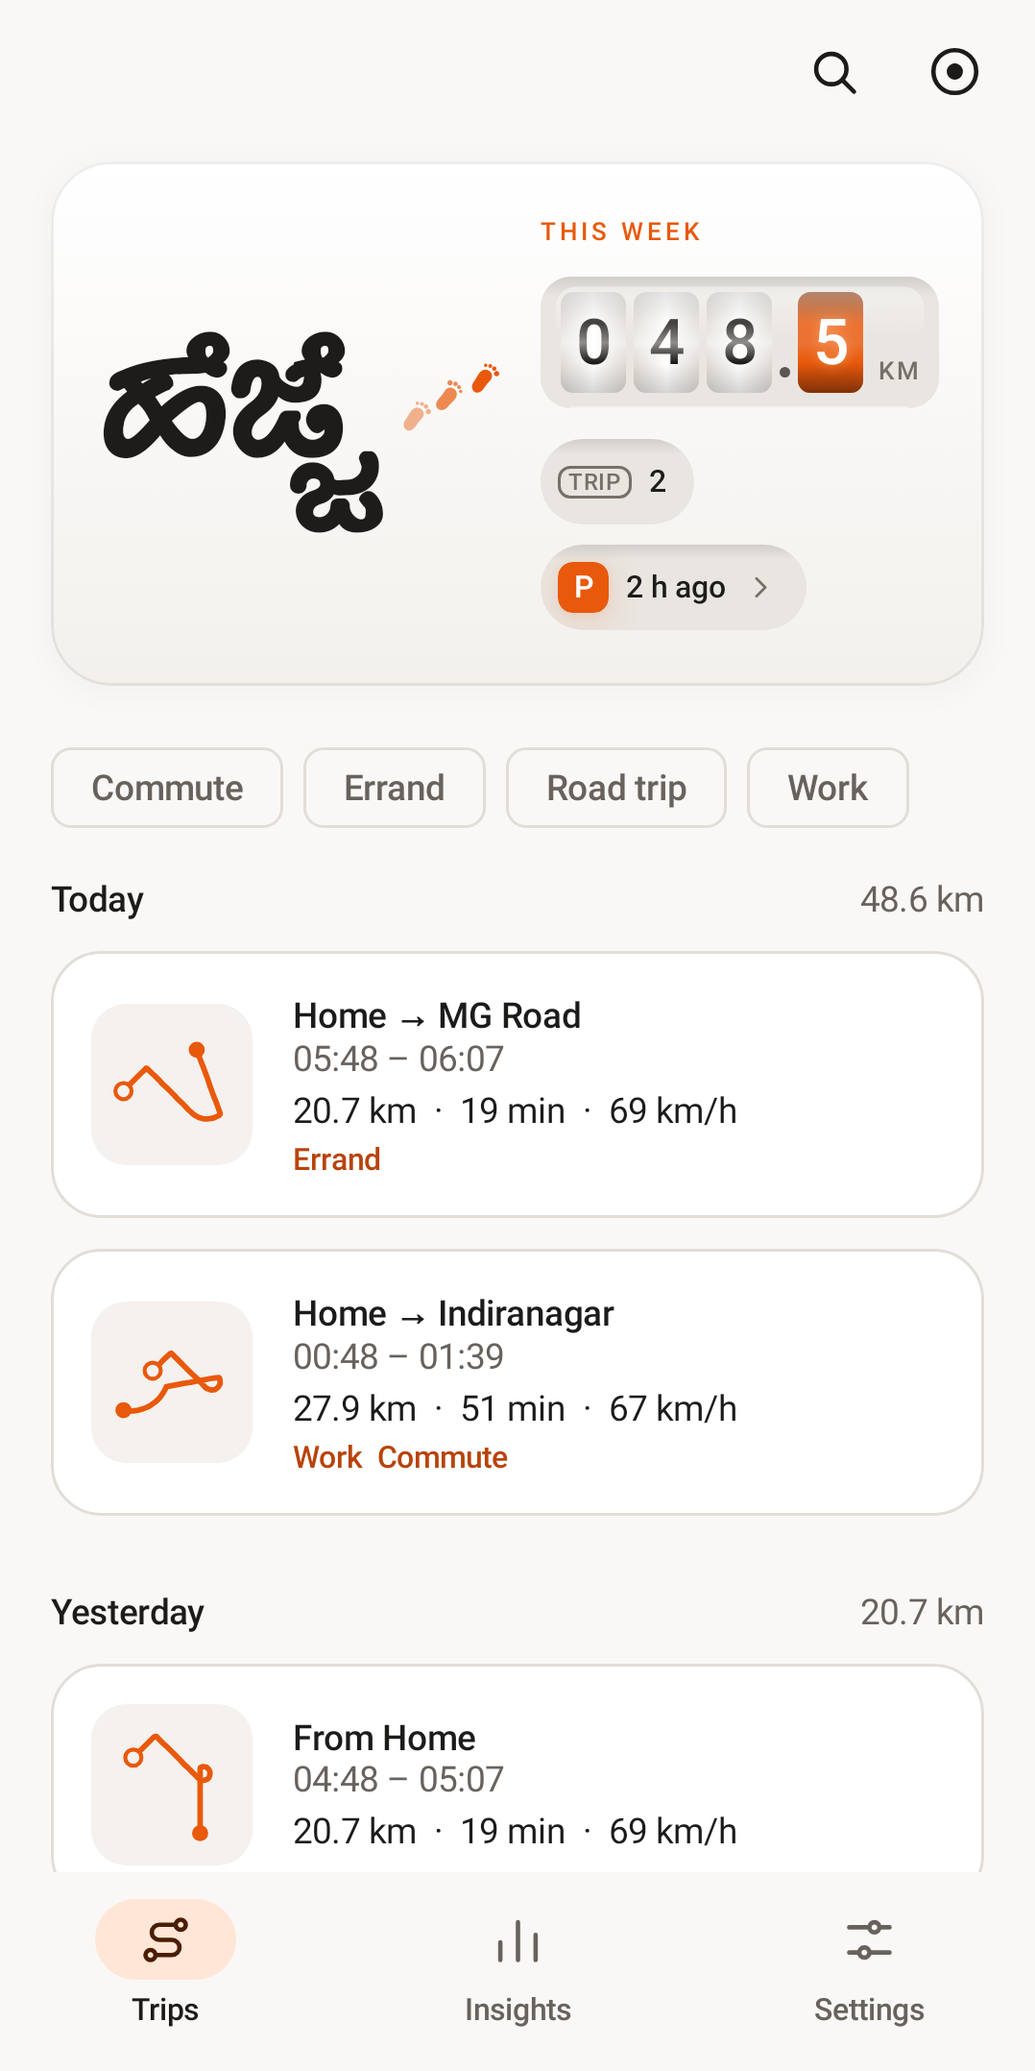
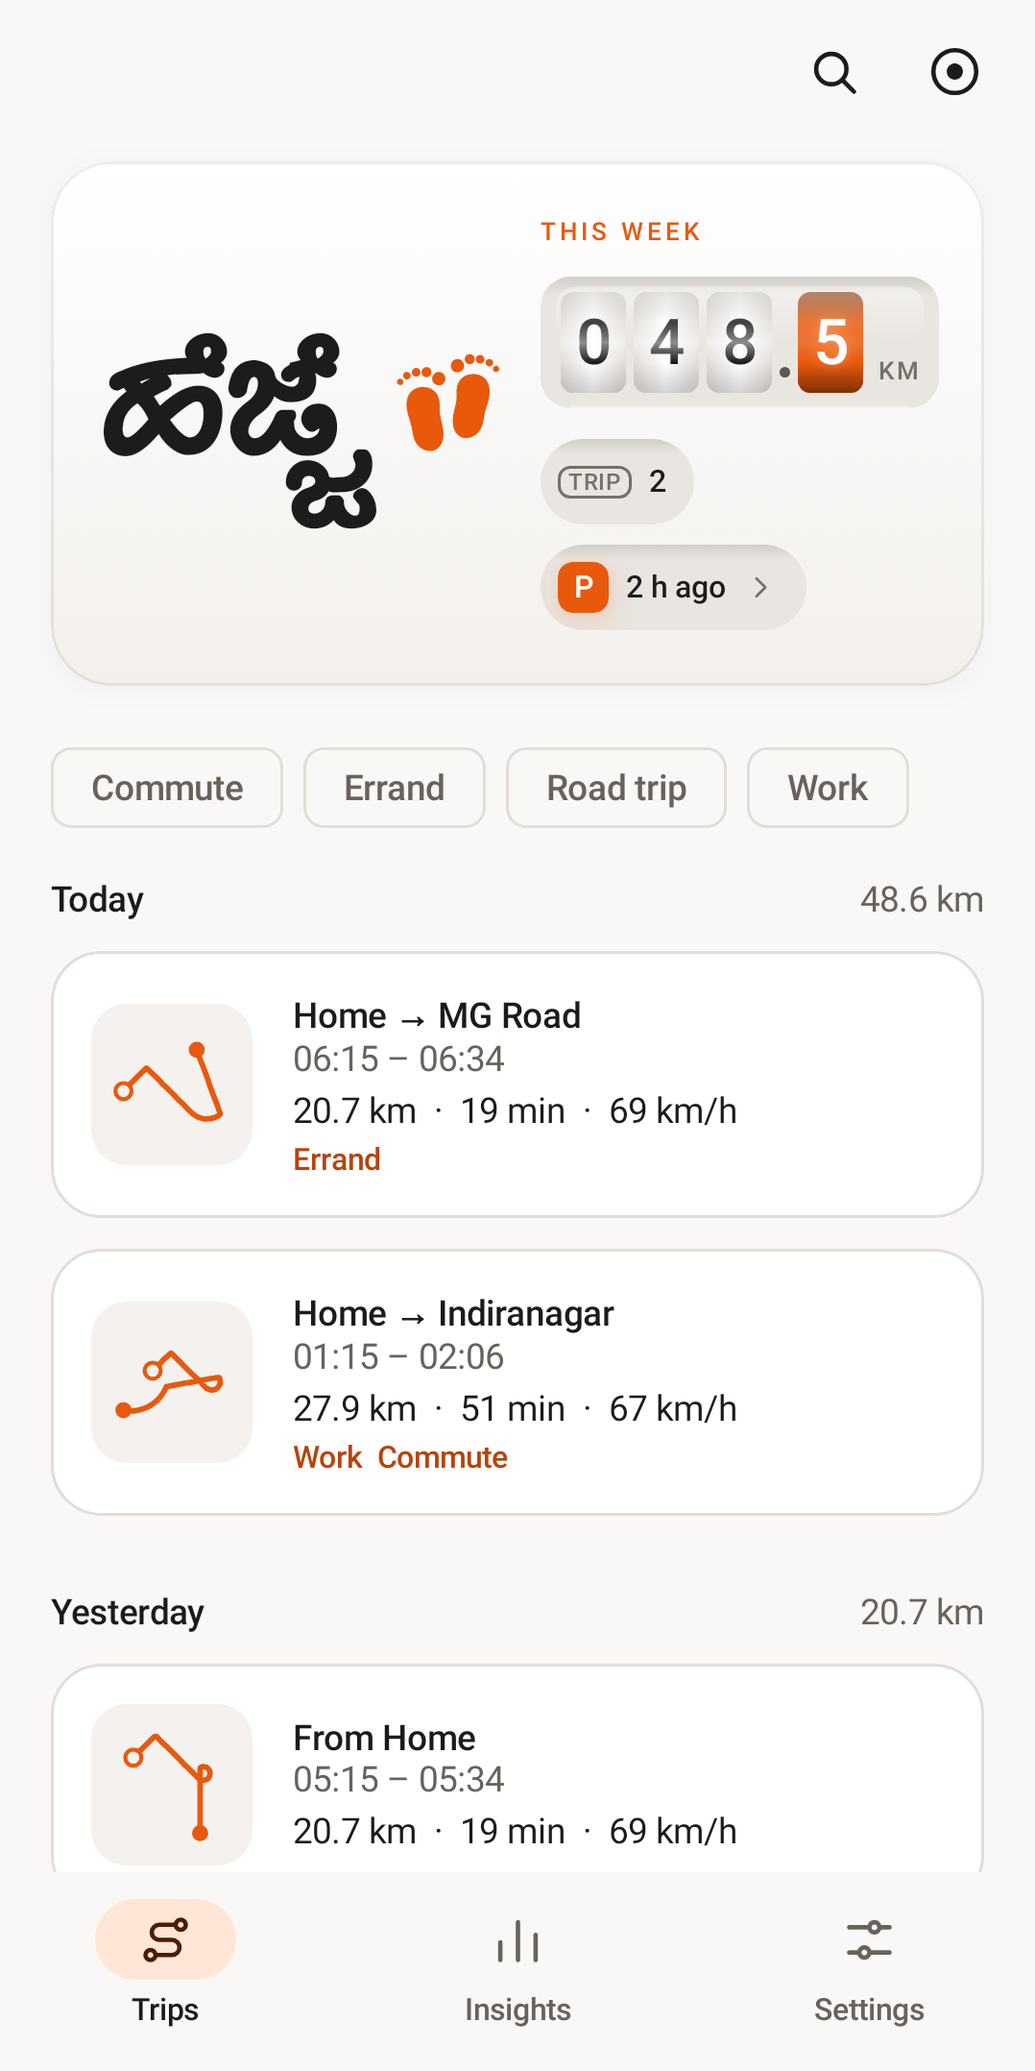
Footstep mark: one pair of feet beside the wordmark
The three-step trail becomes a single pair of bare feet, five toes each,
like the footprints emoji. It is now part of one shared wordmark that
stands the feet on the letters' baseline and scales them with the text,
so it lines up on every screen, the share picture, the widget and the
Play feature graphic. Store screenshots refreshed.

Claude-Session: https://claude.ai/code/session_01V1Pa28FQNsQ4Z9KmypYRwm

diff --git a/app/src/main/java/com/canis/hejje/ui/theme/Wordmark.kt b/app/src/main/java/com/canis/hejje/ui/theme/Wordmark.kt
@@ -2,39 +2,87 @@ package com.canis.hejje.ui.theme
 
 import android.content.Context
 import android.graphics.Canvas
+import android.graphics.Paint
+import androidx.compose.foundation.layout.Box
 import androidx.compose.foundation.layout.aspectRatio
-import androidx.compose.foundation.layout.height
+import androidx.compose.foundation.layout.fillMaxHeight
+import androidx.compose.foundation.layout.fillMaxSize
+import androidx.compose.foundation.text.BasicText
+import androidx.compose.foundation.text.InlineTextContent
+import androidx.compose.foundation.text.TextAutoSize
+import androidx.compose.foundation.text.appendInlineContent
 import androidx.compose.material3.Icon
+import androidx.compose.material3.LocalContentColor
 import androidx.compose.runtime.Composable
+import androidx.compose.runtime.remember
+import androidx.compose.ui.Alignment
 import androidx.compose.ui.Modifier
 import androidx.compose.ui.graphics.Color
+import androidx.compose.ui.graphics.takeOrElse
 import androidx.compose.ui.res.painterResource
+import androidx.compose.ui.res.stringResource
+import androidx.compose.ui.text.Placeholder
+import androidx.compose.ui.text.PlaceholderVerticalAlign
+import androidx.compose.ui.text.TextStyle
+import androidx.compose.ui.text.buildAnnotatedString
 import androidx.compose.ui.text.font.Font
 import androidx.compose.ui.text.font.FontFamily
 import androidx.compose.ui.text.font.FontWeight
-import androidx.compose.ui.unit.Dp
+import androidx.compose.ui.unit.em
 import androidx.core.content.ContextCompat
 import com.canis.hejje.R
 
 /** Mallige Bold, used only for the name ಹೆಜ್ಜೆ. GPL v2, see third_party/mallige. */
 val WordmarkFont = FontFamily(Font(R.font.mallige_bold, FontWeight.Bold))
 
-/** The footstep marks drawn beside the wordmark ([R.drawable.ic_footsteps]), [height] tall, in [tint]. Decorative. */
+/** The footstep mark ([R.drawable.ic_footsteps]): width for each unit of height. */
+const val FOOTSTEPS_ASPECT = 38f / 36f
+
+/** The mark is this many times the font size tall, standing on the baseline like the letters. */
+private const val FEET_EM = 0.6f
+
+/** Space between the name and the mark, in font sizes. */
+private const val FEET_GAP_EM = 0.06f
+
+private const val FEET_ID = "feet"
+
+/**
+ * The name ಹೆಜ್ಜೆ in Mallige with the footstep mark after it, on the same baseline and scaled with the
+ * text, so it lines up at any size (including [autoSize]). The mark is decorative.
+ */
 @Composable
-fun Footsteps(height: Dp, tint: Color, modifier: Modifier = Modifier) {
-    Icon(
-        painterResource(R.drawable.ic_footsteps), contentDescription = null, tint = tint,
-        modifier = modifier.height(height).aspectRatio(FOOTSTEPS_ASPECT),
+fun Wordmark(style: TextStyle, footColor: Color, modifier: Modifier = Modifier, autoSize: TextAutoSize? = null) {
+    val name = stringResource(R.string.brand_name)
+    val text = remember(name) { buildAnnotatedString { append(name); appendInlineContent(FEET_ID, " ") } }
+    val feet = mapOf(
+        FEET_ID to InlineTextContent(
+            Placeholder((FEET_GAP_EM + FEET_EM * FOOTSTEPS_ASPECT).em, FEET_EM.em, PlaceholderVerticalAlign.AboveBaseline),
+        ) {
+            Box(Modifier.fillMaxSize(), contentAlignment = Alignment.CenterEnd) {
+                Icon(
+                    painterResource(R.drawable.ic_footsteps), contentDescription = null, tint = footColor,
+                    modifier = Modifier.fillMaxHeight().aspectRatio(FOOTSTEPS_ASPECT),
+                )
+            }
+        },
+    )
+    BasicText(
+        text, modifier,
+        style = style.copy(fontFamily = WordmarkFont, fontWeight = FontWeight.Bold, color = style.color.takeOrElse { LocalContentColor.current }),
+        maxLines = 1, inlineContent = feet, autoSize = autoSize,
     )
 }
 
-/** Width of the footstep marks for each unit of height. */
-const val FOOTSTEPS_ASPECT = 1.5f
+/** Width of [name] plus its footstep mark when drawn with [paint] (already set to the wordmark's font and size). */
+fun wordmarkWidth(paint: Paint, name: String): Float = paint.measureText(name) + paint.textSize * (FEET_GAP_EM + FEET_EM * FOOTSTEPS_ASPECT)
 
-/** Draws the footstep marks into a picture (share card, widget), bottom-left at ([left], [bottom]). */
-fun Canvas.drawFootsteps(context: Context, left: Float, bottom: Float, height: Float, color: Int) {
+/** Draws [name] with [paint] at ([x], [baseline]) and the footstep mark after it, standing on the same baseline. */
+fun Canvas.drawWordmark(context: Context, name: String, x: Float, baseline: Float, paint: Paint, footColor: Int) {
+    drawText(name, x, baseline, paint)
     val marks = ContextCompat.getDrawable(context, R.drawable.ic_footsteps)?.mutate() ?: return
-    marks.setTint(color)
-    marks.setBounds(left.toInt(), (bottom - height).toInt(), (left + height * FOOTSTEPS_ASPECT).toInt(), bottom.toInt())
+    val h = paint.textSize * FEET_EM
+    val left = x + paint.measureText(name) + paint.textSize * FEET_GAP_EM
+    marks.setTint(footColor)
+    marks.setBounds(left.toInt(), (baseline - h).toInt(), (left + h * FOOTSTEPS_ASPECT).toInt(), baseline.toInt())
     marks.draw(this)
 }

diff --git a/app/src/main/java/com/canis/hejje/ui/trips/Cluster.kt b/app/src/main/java/com/canis/hejje/ui/trips/Cluster.kt
@@ -25,7 +25,6 @@ import androidx.compose.foundation.layout.width
 import androidx.compose.foundation.layout.wrapContentHeight
 import androidx.compose.foundation.shape.CircleShape
 import androidx.compose.foundation.shape.RoundedCornerShape
-import androidx.compose.foundation.text.BasicText
 import androidx.compose.foundation.text.TextAutoSize
 import androidx.compose.material3.Icon
 import androidx.compose.material3.MaterialTheme
@@ -75,10 +74,9 @@ import com.canis.hejje.food.NextStop
 import com.canis.hejje.recording.LiveState
 import com.canis.hejje.recording.TraceState
 import com.canis.hejje.ui.components.HejjeIcons
-import com.canis.hejje.ui.theme.Footsteps
+import com.canis.hejje.ui.theme.Wordmark
 import com.canis.hejje.ui.theme.LocalPalette
 import com.canis.hejje.ui.theme.LocalReduceMotion
-import com.canis.hejje.ui.theme.WordmarkFont
 import kotlinx.coroutines.delay
 import kotlin.math.abs
 import kotlin.math.floor
@@ -190,18 +188,11 @@ fun InstrumentCluster(
                     verticalAlignment = Alignment.CenterVertically,
                     horizontalArrangement = Arrangement.spacedBy(12.dp),
                 ) {
-                    Row(Modifier.weight(1f), verticalAlignment = Alignment.CenterVertically) {
-                        BasicText(
-                            stringResource(R.string.brand_name),
-                            style = MaterialTheme.typography.displaySmall.copy(
-                                fontFamily = WordmarkFont, fontWeight = FontWeight.Bold, color = dash.text, shadow = dash.wordShadow,
-                            ),
-                            maxLines = 1,
-                            autoSize = TextAutoSize.StepBased(minFontSize = 22.sp, maxFontSize = 72.sp, stepSize = 2.sp),
-                            modifier = Modifier.weight(1f, fill = false).semantics { heading() },
-                        )
-                        Footsteps(30.dp, dash.accent, Modifier.padding(start = 2.dp, bottom = 22.dp))
-                    }
+                    Wordmark(
+                        MaterialTheme.typography.displaySmall.copy(color = dash.text, shadow = dash.wordShadow), dash.accent,
+                        Modifier.weight(1f).semantics { heading() },
+                        autoSize = TextAutoSize.StepBased(minFontSize = 22.sp, maxFontSize = 72.sp, stepSize = 2.sp),
+                    )
                     // The odometer keeps its full width; the wordmark shrinks to make room on small screens.
                     Column(Modifier.width(IntrinsicSize.Min), verticalArrangement = Arrangement.spacedBy(12.dp)) {
                         Text(

diff --git a/app/src/main/java/com/canis/hejje/ui/HejjeRoot.kt b/app/src/main/java/com/canis/hejje/ui/HejjeRoot.kt
@@ -23,7 +23,6 @@ import androidx.compose.animation.slideOutHorizontally
 import androidx.compose.foundation.Image
 import androidx.compose.foundation.background
 import androidx.compose.foundation.layout.Box
-import androidx.compose.foundation.layout.Row
 import androidx.compose.foundation.layout.WindowInsets
 import androidx.compose.foundation.layout.fillMaxSize
 import androidx.compose.foundation.layout.fillMaxWidth
@@ -67,7 +66,6 @@ import androidx.compose.ui.platform.LocalDensity
 import androidx.compose.ui.res.painterResource
 import androidx.compose.ui.res.stringResource
 import androidx.compose.ui.semantics.clearAndSetSemantics
-import androidx.compose.ui.text.font.FontWeight
 import androidx.compose.ui.unit.IntOffset
 import androidx.compose.ui.unit.dp
 import androidx.lifecycle.ViewModel
@@ -102,11 +100,10 @@ import com.canis.hejje.ui.settings.SettingsScreen
 import com.canis.hejje.ui.settings.ZonesScreen
 import com.canis.hejje.ui.stretch.SectionScreen
 import com.canis.hejje.ui.stretch.StretchScreen
-import com.canis.hejje.ui.theme.Footsteps
+import com.canis.hejje.ui.theme.Wordmark
 import com.canis.hejje.ui.theme.HejjeTheme
 import com.canis.hejje.ui.theme.LocalPalette
 import com.canis.hejje.ui.theme.LocalReduceMotion
-import com.canis.hejje.ui.theme.WordmarkFont
 import com.canis.hejje.ui.trips.TripsScreen
 import kotlinx.coroutines.delay
 import kotlinx.coroutines.flow.distinctUntilChanged
@@ -241,14 +238,10 @@ private fun BrandSplash() {
         Box(Modifier.fillMaxSize().background(MaterialTheme.colorScheme.background).clearAndSetSemantics { }, contentAlignment = Alignment.Center) {
             // Same drawable and size as the system splash, so the icon does not move.
             Image(painterResource(R.drawable.ic_splash), null, Modifier.size(288.dp))
-            Row(Modifier.offset(y = 84.dp), verticalAlignment = Alignment.CenterVertically) {
-                Text(
-                    stringResource(R.string.brand_name),
-                    style = MaterialTheme.typography.titleLarge.copy(fontFamily = WordmarkFont, fontWeight = FontWeight.Bold),
-                    color = MaterialTheme.colorScheme.onBackground,
-                )
-                Footsteps(17.dp, LocalPalette.current.accent, Modifier.padding(start = 2.dp, bottom = 10.dp))
-            }
+            Wordmark(
+                MaterialTheme.typography.titleLarge.copy(color = MaterialTheme.colorScheme.onBackground), LocalPalette.current.accent,
+                Modifier.offset(y = 84.dp),
+            )
         }
     }
 }

diff --git a/app/src/main/java/com/canis/hejje/ui/settings/ParkedAbout.kt b/app/src/main/java/com/canis/hejje/ui/settings/ParkedAbout.kt
@@ -6,7 +6,6 @@ import androidx.compose.foundation.Image
 import androidx.compose.foundation.layout.Box
 import androidx.compose.foundation.layout.Column
 import androidx.compose.foundation.layout.PaddingValues
-import androidx.compose.foundation.layout.Row
 import androidx.compose.foundation.layout.Spacer
 import androidx.compose.foundation.layout.fillMaxSize
 import androidx.compose.foundation.layout.fillMaxWidth
@@ -34,7 +33,6 @@ import androidx.compose.ui.draw.clip
 import androidx.compose.ui.platform.LocalContext
 import androidx.compose.ui.res.painterResource
 import androidx.compose.ui.res.stringResource
-import androidx.compose.ui.text.font.FontWeight
 import androidx.compose.ui.unit.dp
 import androidx.core.net.toUri
 import androidx.lifecycle.compose.collectAsStateWithLifecycle
@@ -51,9 +49,8 @@ import com.canis.hejje.ui.components.rememberHaptics
 import com.canis.hejje.ui.map.MapMarker
 import com.canis.hejje.ui.map.TripMap
 import com.canis.hejje.ui.rememberFormatter
-import com.canis.hejje.ui.theme.Footsteps
+import com.canis.hejje.ui.theme.Wordmark
 import com.canis.hejje.ui.theme.LocalPalette
-import com.canis.hejje.ui.theme.WordmarkFont
 import kotlinx.coroutines.launch
 import java.util.Locale
 
@@ -121,10 +118,7 @@ fun AboutScreen(onBack: () -> Unit) {
         ) {
             Column(Modifier.fillMaxWidth(), horizontalAlignment = Alignment.CenterHorizontally) {
                 Image(painterResource(R.drawable.ic_mark), null, Modifier.size(96.dp))
-                Row(verticalAlignment = Alignment.CenterVertically) {
-                    Text(stringResource(R.string.brand_name), style = MaterialTheme.typography.displaySmall.copy(fontFamily = WordmarkFont, fontWeight = FontWeight.Bold))
-                    Footsteps(26.dp, LocalPalette.current.accent, Modifier.padding(start = 2.dp, bottom = 16.dp))
-                }
+                Wordmark(MaterialTheme.typography.displaySmall, LocalPalette.current.accent)
                 Text(stringResource(R.string.about_meaning), style = MaterialTheme.typography.bodyMedium, color = MaterialTheme.colorScheme.onSurfaceVariant)
                 Text(
                     stringResource(R.string.settings_version, BuildConfig.VERSION_NAME), style = MaterialTheme.typography.bodyMedium,

diff --git a/app/src/main/java/com/canis/hejje/ui/trips/LiveCluster.kt b/app/src/main/java/com/canis/hejje/ui/trips/LiveCluster.kt
@@ -21,7 +21,6 @@ import androidx.compose.foundation.layout.size
 import androidx.compose.foundation.layout.width
 import androidx.compose.foundation.layout.wrapContentWidth
 import androidx.compose.foundation.shape.RoundedCornerShape
-import androidx.compose.foundation.text.BasicText
 import androidx.compose.material3.Icon
 import androidx.compose.material3.Text
 import androidx.compose.runtime.Composable
@@ -71,10 +70,9 @@ import com.canis.hejje.recording.LiveState
 import com.canis.hejje.recording.TraceState
 import com.canis.hejje.ui.components.HejjeIcons
 import com.canis.hejje.ui.components.PulsingDot
-import com.canis.hejje.ui.theme.Footsteps
+import com.canis.hejje.ui.theme.Wordmark
 import com.canis.hejje.ui.theme.LocalPalette
 import com.canis.hejje.ui.theme.LocalReduceMotion
-import com.canis.hejje.ui.theme.WordmarkFont
 import kotlinx.coroutines.delay
 import java.util.Locale
 import kotlin.math.cos
@@ -166,13 +164,7 @@ internal fun elapsed(ms: Long): String {
 private fun Header(live: LiveState, now: Long, f: Formatter, onStop: () -> Unit) {
     val dash = Dash
     Row(Modifier.fillMaxWidth(), verticalAlignment = Alignment.CenterVertically) {
-        BasicText(
-            stringResource(R.string.brand_name),
-            style = TextStyle(fontFamily = WordmarkFont, fontWeight = FontWeight.Bold, fontSize = 26.sp, color = dash.text, shadow = dash.wordShadow),
-            maxLines = 1,
-            modifier = Modifier.semantics { heading() },
-        )
-        Footsteps(17.dp, dash.accent, Modifier.padding(start = 2.dp, bottom = 10.dp))
+        Wordmark(TextStyle(fontSize = 26.sp, color = dash.text, shadow = dash.wordShadow), dash.accent, Modifier.semantics { heading() })
         Spacer(Modifier.weight(1f))
         PulsingDot(size = 7.dp)
         Text(

diff --git a/app/src/main/java/com/canis/hejje/widget/DashboardBitmap.kt b/app/src/main/java/com/canis/hejje/widget/DashboardBitmap.kt
@@ -12,8 +12,8 @@ import androidx.core.content.res.ResourcesCompat
 import androidx.core.graphics.createBitmap
 import androidx.core.graphics.withTranslation
 import com.canis.hejje.R
-import com.canis.hejje.ui.theme.FOOTSTEPS_ASPECT
-import com.canis.hejje.ui.theme.drawFootsteps
+import com.canis.hejje.ui.theme.drawWordmark
+import com.canis.hejje.ui.theme.wordmarkWidth
 import com.canis.hejje.ui.trips.drawDrumDigits
 import com.canis.hejje.ui.trips.odometerPositions
 import kotlin.math.min
@@ -69,15 +69,13 @@ object DashboardBitmap {
         val name = context.getString(R.string.brand_name)
         p.textSize = 100f
         val bounds = android.graphics.Rect().also { p.getTextBounds(name, 0, name.length, it) }
-        // The name and its footstep marks (a third of its height) fill 70% of the left part, centred.
-        val marksPer = bounds.height() * 0.42f
-        val fit = min(140f / (bounds.width() + marksPer * FOOTSTEPS_ASPECT + 6f), 100f / bounds.height()) * 0.7f
+        // The name and its footstep mark fill 70% of the left part, centred.
+        val width = wordmarkWidth(p, name)
+        val fit = min(140f / width, 100f / bounds.height()) * 0.7f
         p.textSize = 100f * fit
-        val total = (bounds.width() + marksPer * FOOTSTEPS_ASPECT + 6f) * fit
-        val nameX = 18f + (140f - total) / 2f
+        val nameX = 18f + (140f - width * fit) / 2f
         val nameY = 80f - (bounds.top + bounds.bottom) / 2f * fit
-        cv.drawText(name, nameX - bounds.left * fit, nameY, p)
-        cv.drawFootsteps(context, nameX + (bounds.width() + 6f) * fit, 80f - bounds.height() * fit * 0.12f, marksPer * fit, c.accent)
+        cv.drawWordmark(context, name, nameX, nameY, p, c.accent)
 
         // Label.
         val x0 = 172f

diff --git a/app/src/main/java/com/canis/hejje/ui/onboarding/OnboardingScreen.kt b/app/src/main/java/com/canis/hejje/ui/onboarding/OnboardingScreen.kt
@@ -45,7 +45,6 @@ import androidx.compose.ui.res.stringResource
 import androidx.compose.ui.semantics.Role
 import androidx.compose.ui.semantics.heading
 import androidx.compose.ui.semantics.semantics
-import androidx.compose.ui.text.font.FontWeight
 import androidx.compose.ui.text.style.TextAlign
 import androidx.compose.ui.unit.dp
 import androidx.lifecycle.compose.collectAsStateWithLifecycle
@@ -57,9 +56,8 @@ import com.canis.hejje.ui.components.HejjeIcons
 import com.canis.hejje.ui.components.LocalContainer
 import com.canis.hejje.ui.settings.rememberFixer
 import com.canis.hejje.ui.settings.rememberResumeTick
-import com.canis.hejje.ui.theme.Footsteps
+import com.canis.hejje.ui.theme.Wordmark
 import com.canis.hejje.ui.theme.LocalPalette
-import com.canis.hejje.ui.theme.WordmarkFont
 import kotlinx.coroutines.launch
 
 private class Step(
@@ -115,10 +113,7 @@ fun OnboardingScreen() {
             ) {
                 if (st.icon == null) {
                     Image(painterResource(R.drawable.ic_mark), null, Modifier.size(120.dp))
-                    Row(verticalAlignment = Alignment.CenterVertically) {
-                        Text(stringResource(R.string.brand_name), style = MaterialTheme.typography.displaySmall.copy(fontFamily = WordmarkFont, fontWeight = FontWeight.Bold))
-                        Footsteps(26.dp, palette.accent, Modifier.padding(start = 2.dp, bottom = 16.dp))
-                    }
+                    Wordmark(MaterialTheme.typography.displaySmall, palette.accent)
                     Spacer(Modifier.height(20.dp))
                 } else {
                     Icon(st.icon, null, Modifier.size(56.dp), tint = palette.accent)

diff --git a/app/src/test/java/com/canis/hejje/store/StoreGraphicsTest.kt b/app/src/test/java/com/canis/hejje/store/StoreGraphicsTest.kt
@@ -14,7 +14,7 @@ import androidx.core.content.ContextCompat
 import androidx.core.content.res.ResourcesCompat
 import androidx.test.core.app.ApplicationProvider
 import com.canis.hejje.R
-import com.canis.hejje.ui.theme.drawFootsteps
+import com.canis.hejje.ui.theme.drawWordmark
 import org.junit.Assert.assertEquals
 import org.junit.Test
 import org.junit.runner.RunWith
@@ -77,8 +77,7 @@ class StoreGraphicsTest {
         // The joined letter hangs well below the baseline, so place the word by its drawn bounds.
         val bounds = Rect().also { word.getTextBounds(name, 0, name.length, it) }
         val baseline = 100f - bounds.top
-        c.drawText(name, 70f, baseline, word)
-        c.drawFootsteps(context, 70f + word.measureText(name) + 8f, baseline - 40f, 72f, accent)
+        c.drawWordmark(context, name, 70f, baseline, word, accent)
 
         val tag = Paint(Paint.ANTI_ALIAS_FLAG).apply {
             typeface = Typeface.create("sans-serif-medium", Typeface.NORMAL); textSize = 36f; color = 0xFFB9B4AF.toInt()

diff --git a/app/src/main/java/com/canis/hejje/ui/share/ShareCard.kt b/app/src/main/java/com/canis/hejje/ui/share/ShareCard.kt
@@ -21,7 +21,7 @@ import com.canis.hejje.domain.Geo
 import com.canis.hejje.domain.Route
 import com.canis.hejje.ui.map.Flags
 import com.canis.hejje.ui.theme.DarkPalette
-import com.canis.hejje.ui.theme.drawFootsteps
+import com.canis.hejje.ui.theme.drawWordmark
 import com.canis.hejje.ui.trips.drawDrumDigits
 import com.canis.hejje.ui.trips.odometerPositions
 import java.io.File
@@ -82,8 +82,7 @@ object ShareCard {
         p.color = TEXT
         p.textSize = 78f
         val name = context.getString(R.string.brand_name)
-        c.drawText(name, PAD, 128f, p)
-        c.drawFootsteps(context, PAD + p.measureText(name) + 6f, 100f, 48f, accent)
+        c.drawWordmark(context, name, PAD, 128f, p, accent)
         p.typeface = Typeface.create("sans-serif-medium", Typeface.NORMAL)
         p.textAlign = Paint.Align.RIGHT
         p.letterSpacing = 0.14f
